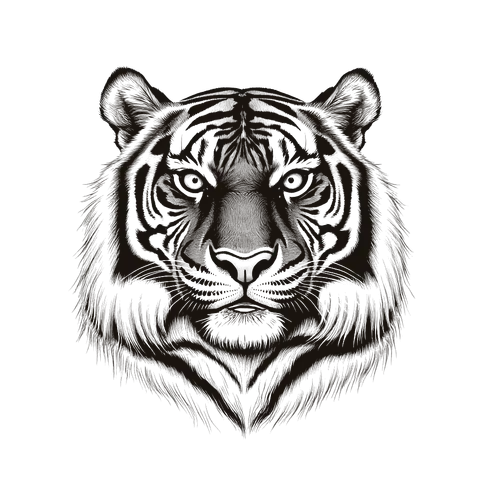
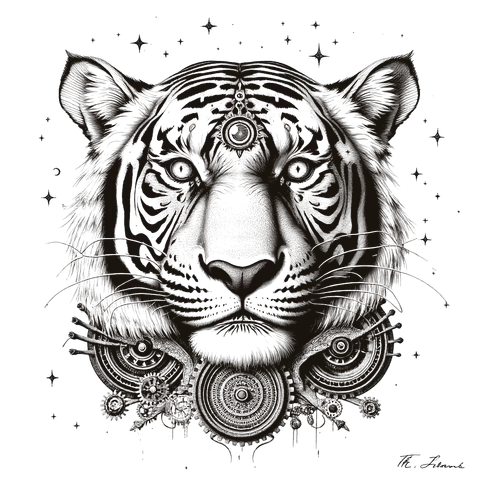
Têtes menu : remplace la fourmi par un éléphant, chimères adoucies
La fourmi (mandibules dentelées, gros yeux noirs) lisait comme un monstre
quelle que soit la formulation du prompt — remplacée par un éléphant,
anatomiquement plus doux et difficile à rendre effrayant. Sa trompe se
lève au clic via un pivot CSS (même principe que le pliage des ailes du
papillon : la bande de la trompe est découpée en encoche du reste de
l'image, jamais de second raster). Tigre et papillon régénérés avec un
prompt épuré des négations ("no horror, no gore...") qui faisaient
ressortir l'effet inverse chez FLUX.

diff --git a/src/components/TeteCollage.tsx b/src/components/TeteCollage.tsx
@@ -8,18 +8,19 @@ import { useReve } from '../reve'
  * collage a été retiré, il chargeait l'écran et noyait la bête). Les couleurs
  * suivent l'ambiance du rêve via le même filtre invert() que Decor.tsx.
  *
- * Au clic, la bête « se referme » brièvement avant la navigation :
- *  - fourmi / tigre : deux gravures alignées pixel à pixel (ouverte → fermée,
- *    obtenues par inpainting ciblé sur la seule zone des mandibules/gueule,
- *    le reste de l'image est strictement identique) — fondu de l'une à l'autre.
- *  - papillon : une seule gravure (ailes ouvertes) ; aucun inpainting ne peut
- *    replier des ailes sans déplacer des pixels sur tout le cadre, donc la
- *    fermeture est un pliage CSS (clip-path + rotate/scaleX) sur cette même
- *    image, jamais redessinée — donc jamais désalignée.
+ * Au clic, la bête s'anime brièvement avant la navigation :
+ *  - tigre : deux gravures alignées pixel à pixel (gueule ouverte → fermée,
+ *    obtenues par inpainting ciblé sur la seule zone de la gueule, le reste
+ *    de l'image est strictement identique) — fondu de l'une à l'autre.
+ *  - éléphant / papillon : une seule gravure ; aucun inpainting ne peut lever
+ *    une trompe ou replier des ailes sans déplacer des pixels sur une grande
+ *    partie du cadre, donc l'animation est un pivot/pliage CSS (clip-path +
+ *    rotate/scaleX) sur cette même image, jamais redessinée — donc jamais
+ *    désalignée.
  * Le nom du mode est une légende sous la tête, en clair sur le fond.
  */
 
-export type Espece = 'fourmi' | 'papillon' | 'tigre'
+export type Espece = 'elephant' | 'papillon' | 'tigre'
 
 type Props = {
   espece: Espece
@@ -98,8 +99,8 @@ function masquer(e: React.SyntheticEvent<HTMLImageElement>) {
 }
 
 /**
- * fourmi / tigre : deux gravures alignées pixel à pixel, fondu bref de l'une
- * vers l'autre — jamais de désalignement puisque seule la zone anatomique
+ * tigre : deux gravures alignées pixel à pixel, fondu bref de l'une vers
+ * l'autre — jamais de désalignement puisque seule la zone anatomique
  * masquée diffère entre les deux fichiers.
  */
 function EtatsAlignes({ espece, closing }: { espece: Espece; closing: boolean }) {
@@ -152,7 +153,42 @@ function AilesPliantes({ uid, closing }: { uid: string; closing: boolean }) {
   )
 }
 
+// Bande verticale où vit la trompe au repos (mesurée par alpha sur l'image
+// générée) : x 42–58 %, à partir de y 71 % jusqu'au bas du cadre — sous cette
+// ligne, oreilles et défenses sont déjà retombées, seule la trompe reste.
+const TROMPE_X1 = 42, TROMPE_X2 = 58, TROMPE_Y = 71
+
+/**
+ * éléphant : une seule gravure (trompe pendante au repos), levée par un pivot
+ * CSS au clic — comme les ailes du papillon, jamais un second raster. La
+ * bande de la trompe est taillée en encoche dans le bord bas de la couche
+ * fixe (tête, oreilles, défenses) pour qu'aucun « fantôme » ne reste visible
+ * une fois la trompe pivotée hors de sa position de repos.
+ */
+function TrompeLevee({ uid, closing }: { uid: string; closing: boolean }) {
+  const commun: React.CSSProperties = {
+    position: 'absolute', inset: 0, width: '100%', height: '100%', objectFit: 'contain',
+  }
+  return (
+    <>
+      <img src="/tetes/elephant/ouvert.webp" alt="" onError={masquer} draggable={false} style={{
+        ...commun,
+        clipPath: `polygon(0 0, 100% 0, 100% 100%, ${TROMPE_X2}% 100%, ${TROMPE_X2}% ${TROMPE_Y}%, ` +
+          `${TROMPE_X1}% ${TROMPE_Y}%, ${TROMPE_X1}% 100%, 0 100%)`,
+      }} />
+      <img src="/tetes/elephant/ouvert.webp" alt="" onError={masquer} draggable={false} style={{
+        ...commun,
+        clipPath: `inset(${TROMPE_Y}% ${100 - TROMPE_X2}% 0 ${TROMPE_X1}%)`,
+        transformOrigin: `50% ${TROMPE_Y}%`,
+        animation: closing ? `${uid}-trompe 0.4s steps(4,end) forwards` : undefined,
+      }} />
+      <style>{`@keyframes ${uid}-trompe { to { transform: rotate(180deg); } }`}</style>
+    </>
+  )
+}
+
 function RasterArt({ espece, uid, closing }: { espece: Espece; uid: string; closing: boolean }) {
   if (espece === 'papillon') return <AilesPliantes uid={uid} closing={closing} />
+  if (espece === 'elephant') return <TrompeLevee uid={uid} closing={closing} />
   return <EtatsAlignes espece={espece} closing={closing} />
 }

diff --git a/src/pages/Accueil.tsx b/src/pages/Accueil.tsx
@@ -197,7 +197,7 @@ export default function Accueil() {
         <div style={{ marginBottom: 10 }}>
           <div style={{ display: 'flex', gap: 6 }}>
             <div style={{ flex: 1, minWidth: 0 }}>
-              <TeteCollage espece="fourmi" label="Cadavre Écrit" onActivate={() => nav('/config')} />
+              <TeteCollage espece="elephant" label="Cadavre Écrit" onActivate={() => nav('/config')} />
             </div>
             <div style={{ flex: 1, minWidth: 0 }}>
               <TeteCollage espece="papillon" label="Cadavre Dessiné" onActivate={() => nav('/config-dessin')} />